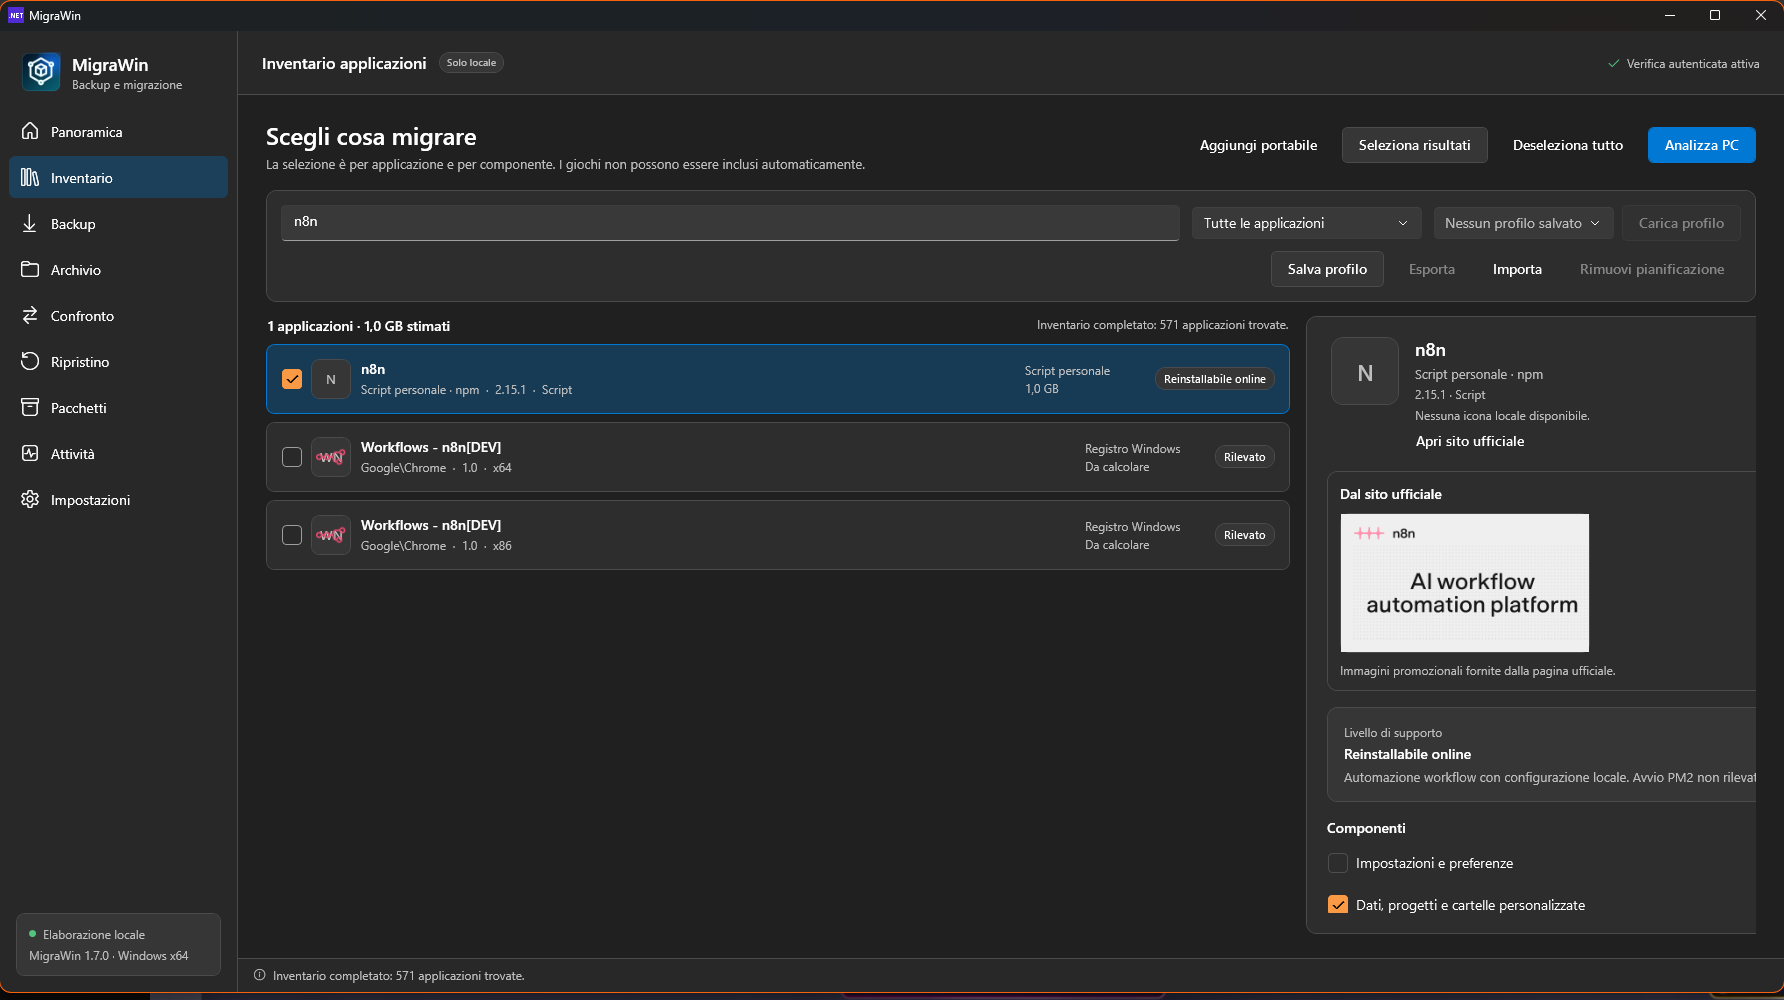
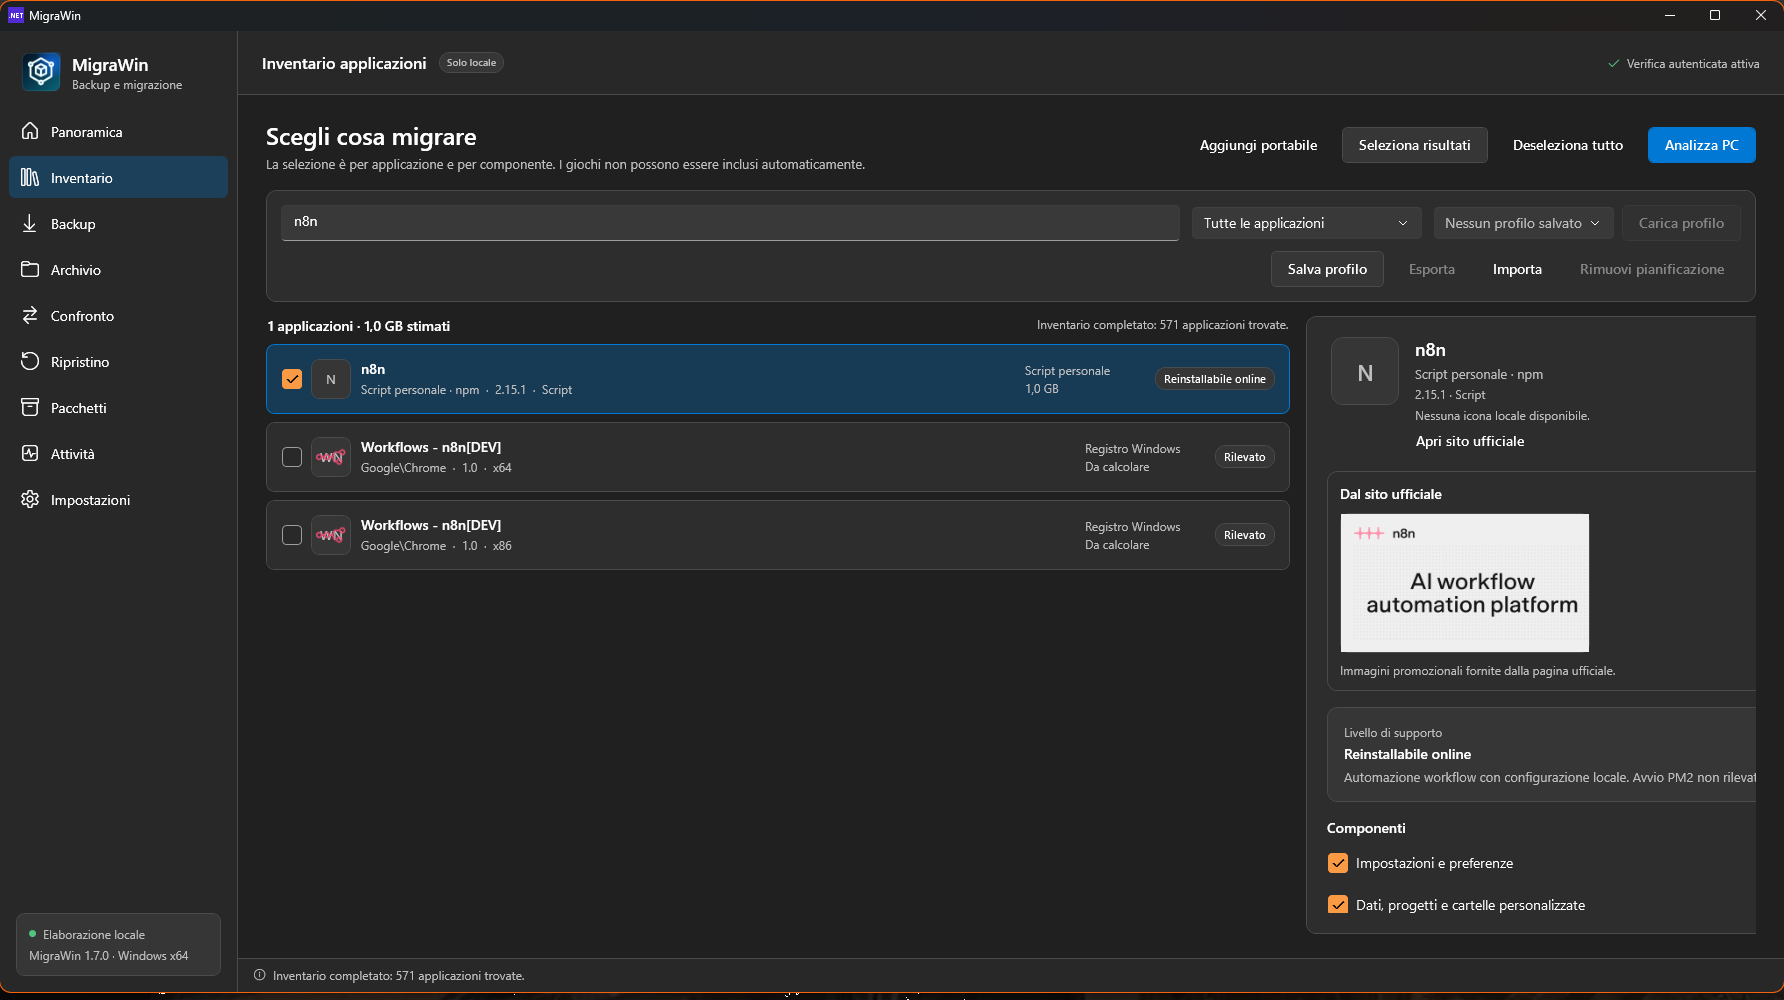
Complete n8n installed configuration coverage

Changed region(s): [[0.0617, 0.992, 1.0, 1.0], [0.7399, 0.837, 0.7707, 0.868]]

diff --git a/src/MigraWin/Services/AdapterCatalog.cs b/src/MigraWin/Services/AdapterCatalog.cs
@@ -76,20 +76,19 @@ public static partial class AdapterCatalog
                  ["dump.pm2", "dump.pm2.bak", "module_conf.json"], true)]),
         new("personal-n8n", "n8n", @"^n8n(?:\s|$)",
             "https://n8n.io/",
-            [],
+            [new(@"%USERPROFILE%\n8n-config.js"),
+             new(@"%USERPROFILE%\avvia_n8n.vbs"),
+             new(@"%USERPROFILE%\.n8n\config", null, true)],
             [new(@"%APPDATA%\npm\n8n"),
              new(@"%APPDATA%\npm\n8n.cmd"),
              new(@"%APPDATA%\npm\n8n.ps1"),
              new(@"%APPDATA%\npm\pm2"),
              new(@"%APPDATA%\npm\pm2.cmd"),
              new(@"%APPDATA%\npm\pm2.ps1"),
-             new(@"%USERPROFILE%\n8n-config.js"),
-             new(@"%USERPROFILE%\avvia_n8n.vbs"),
              new(@"%USERPROFILE%\.n8n",
                  ["database.sqlite", "database.sqlite-shm", "database.sqlite-wal",
                   "storage/**", "nodes/package.json", "nodes/package-lock.json",
                   "nodes/node_modules/**"]),
-             new(@"%USERPROFILE%\.n8n\config", null, true),
              new(@"%USERPROFILE%\.pm2\dump.pm2", null, true),
              new(@"%USERPROFILE%\.pm2\dump.pm2.bak", null, true)]),
         new("personal-pi-agent", "Pi Agent", @"^Pi Agent(?:\s|$)",

diff --git a/src/MigraWin/ViewModels/MainViewModel.cs b/src/MigraWin/ViewModels/MainViewModel.cs
@@ -912,7 +912,8 @@ public sealed class MainViewModel : ObservableObject, IAsyncDisposable
                     application.BackupInstaller = application.HasInstaller;
                     application.BackupSettings = application.HasSettings;
                     application.BackupData = application.HasData;
-                    application.BackupInstalledFiles = false;
+                    application.BackupInstalledFiles = application.Source == "Script personale"
+                                                       && application.HasInstalledFiles;
                     break;
             }
         }

diff --git a/tests/MigraWin.Tests/Program.cs b/tests/MigraWin.Tests/Program.cs
@@ -167,6 +167,7 @@ try
     var n8nTool = personalTools.Single(tool => tool.DisplayName == "n8n");
     var n8nSources = AdapterCatalog.GetSources(n8nTool);
     Assert(n8nTool.HasData
+           && n8nTool.HasSettings
            && n8nTool.BackupInstalledFiles
            && n8nSources.Any(source => source.Includes?.Contains("nodes/node_modules/**") == true)
            && n8nSources.Any(source => source.Root.EndsWith(@"\.n8n\config", StringComparison.OrdinalIgnoreCase)

diff --git a/src/MigraWin/Services/PersonalScriptDiscoveryService.cs b/src/MigraWin/Services/PersonalScriptDiscoveryService.cs
@@ -222,7 +222,7 @@ public sealed class PersonalScriptDiscoveryService
             ProductUrl = productUrl,
             SupportLevel = SupportLevel.Archivable,
             BackupData = true,
-            BackupSettings = false,
+            BackupSettings = true,
             BackupInstalledFiles = backupInstalledFiles,
             EstimatedSize = estimatedSize
         };

diff --git a/README.md b/README.md
@@ -6,7 +6,7 @@
 
 [![Windows CI](https://github.com/renegadeFree/MigraWin/actions/workflows/ci.yml/badge.svg)](https://github.com/renegadeFree/MigraWin/actions/workflows/ci.yml)
 
-[Scarica MigraWin 1.7.0](https://github.com/renegadeFree/MigraWin/releases/download/v1.7.0/MigraWin-1.7.0-x64.msi) · [Manuale](docs/MANUALE.md) · [Formato archivio](docs/REPOSITORY_FORMAT.md) · [Tutte le release](https://github.com/renegadeFree/MigraWin/releases)
+[Scarica MigraWin 1.7.1](https://github.com/renegadeFree/MigraWin/releases/download/v1.7.1/MigraWin-1.7.1-x64.msi) · [Manuale](docs/MANUALE.md) · [Formato archivio](docs/REPOSITORY_FORMAT.md) · [Tutte le release](https://github.com/renegadeFree/MigraWin/releases)
 
 [![Panoramica di MigraWin](docs/images/panoramica.png)](docs/images/panoramica.png)
 
@@ -86,20 +86,20 @@ Da **Impostazioni → Aggiornamenti** il programma controlla l'ultima release pu
 
 Requisiti: **Windows 11 x64**.
 
-1. Scarica [MigraWin 1.7.0 x64](https://github.com/renegadeFree/MigraWin/releases/download/v1.7.0/MigraWin-1.7.0-x64.msi).
+1. Scarica [MigraWin 1.7.1 x64](https://github.com/renegadeFree/MigraWin/releases/download/v1.7.1/MigraWin-1.7.1-x64.msi).
 2. Apri l'MSI. L'installazione avviene per l'utente corrente e non richiede privilegi amministrativi; crea i collegamenti nel menu Start e sul Desktop.
 3. Avvia MigraWin dal menu Start.
 
 Puoi verificare il download:
 
 ```powershell
-Get-FileHash .\MigraWin-1.7.0-x64.msi -Algorithm SHA256
+Get-FileHash .\MigraWin-1.7.1-x64.msi -Algorithm SHA256
 ```
 
-Hash SHA-256 della release 1.7.0:
+Hash SHA-256 della release 1.7.1:
 
 ```text
[1 lines of base64/hex data omitted]
+Il valore aggiornato è pubblicato anche in SHA256SUMS.txt nella release.
 ```
 
 > **Nota sulla firma digitale:** la release corrente non ha una firma Authenticode di distribuzione. Windows può quindi mostrare un avviso SmartScreen. La pipeline di firma è pronta e viene attivata quando è disponibile un certificato valido.
@@ -136,7 +136,7 @@ La voce **n8n** include l'installazione npm attiva, i wrapper CLI, database e fi
 - Sono fuori perimetro WSL, container Docker e macchine virtuali.
 - Windows 10 e Windows ARM64 non sono dichiarati supportati.
 - La scansione automatica degli script copre la radice del profilo e gli strumenti noti, non ogni progetto annidato nel disco.
-- La release 1.7.0 non è firmata con un certificato Authenticode.
+- La release 1.7.1 non è firmata con un certificato Authenticode.
 
 ## Sviluppo e collaudo
 

diff --git a/PLAN.md b/PLAN.md
@@ -56,6 +56,8 @@ Realizzare un'applicazione Windows installabile per inventariare il software, se
 - [x] n8n include package npm completo, database, workflow, storage e moduli dei nodi personalizzati.
 - [x] Dump PM2 e configurazione n8n sono classificati come componenti sensibili con attivazione esplicita.
 - [x] La scheda n8n verifica la presenza del processo nel dump PM2 senza assumerne l'esistenza.
+- [x] n8n porta attivo il backup del package installato e include database/WAL, storage e nodi personalizzati.
+- [x] Configurazione n8n spostata nel componente impostazioni e profilo completo esteso agli strumenti personali installati.
 
 ## Collaudi eseguiti
 

diff --git a/CHANGELOG.md b/CHANGELOG.md
@@ -1,5 +1,12 @@
 # Changelog
 
+## 1.7.1 — 24 ottobre 2026
+
+- n8n abilita per impostazione iniziale il backup del package npm installato;
+- configurazione n8n separata dai dati e disponibile nel componente impostazioni;
+- profilo completo include i file installati degli strumenti personali dotati di cartella applicativa;
+- database WAL, workflow, storage e moduli dei nodi personalizzati vengono inclusi nei dati n8n.
+
 ## 1.7.0 — 24 ottobre 2026
 
 - icona fornita dall'utente modernizzata con simbolo bianco su gradiente blu-verde e nodi luminosi;
